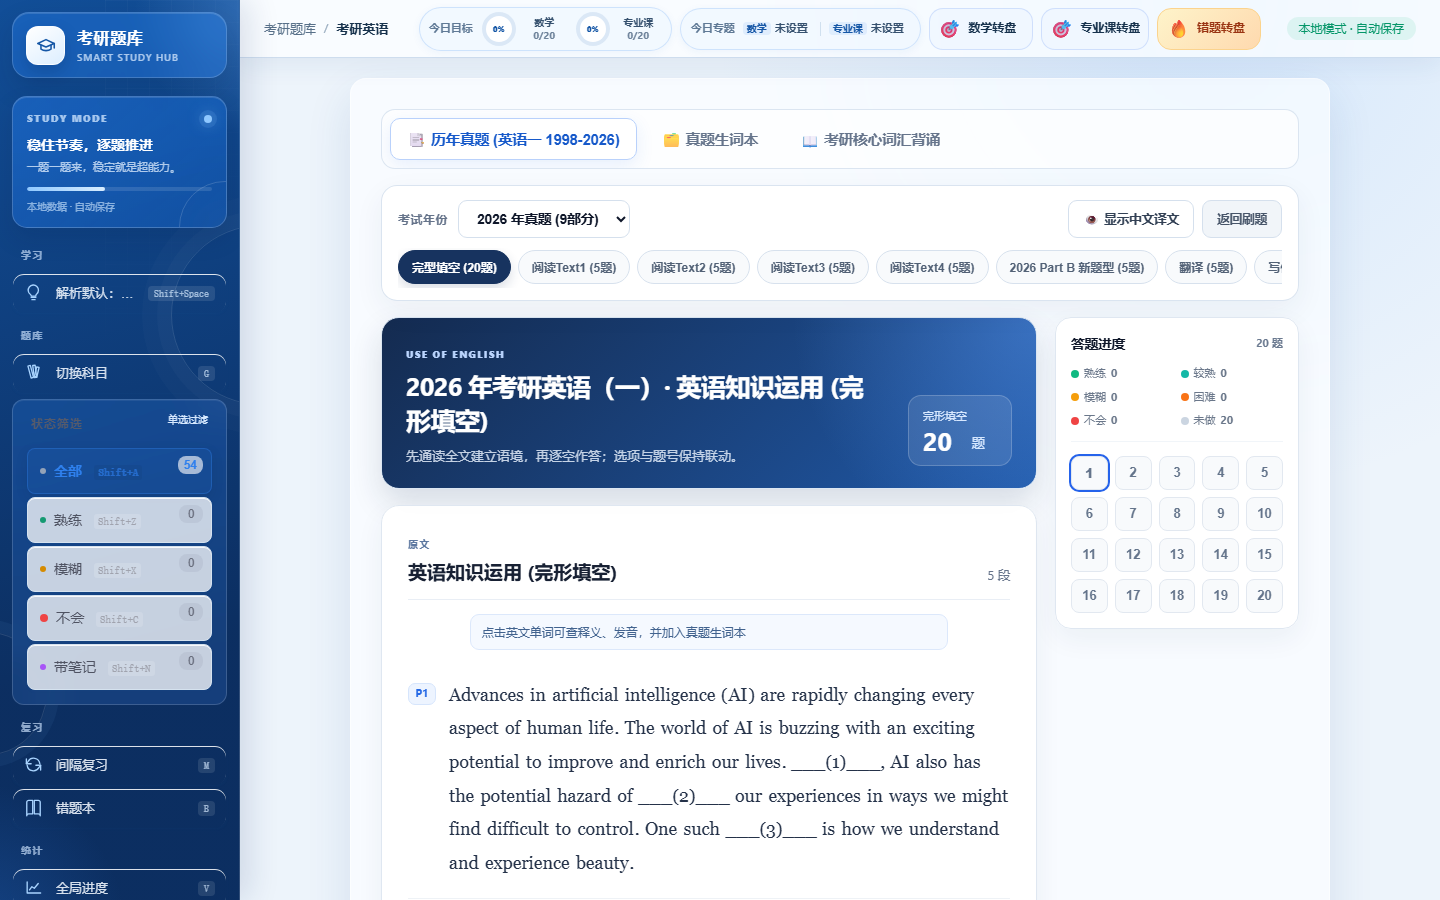
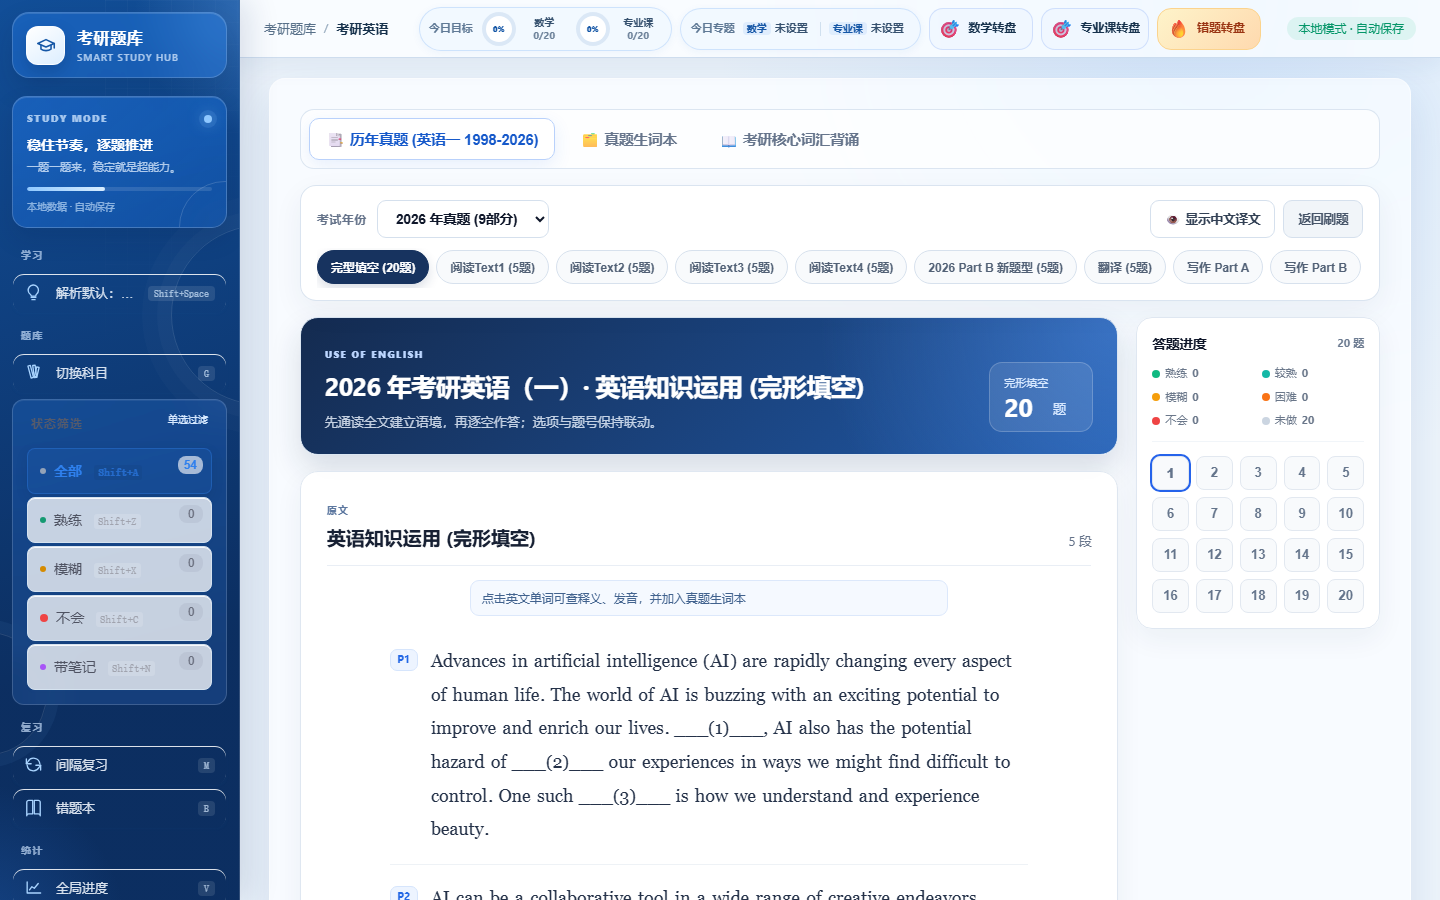
feat: 考研英语空间利用放宽、完形单列排版与启动刷新进入全局进度 (V3)

Changed region(s): [[0.1875, 0.0933, 0.9688, 1.0], [0.75, 0.6533, 0.9375, 0.7156]]

diff --git a/js/app.js b/js/app.js
@@ -1835,8 +1835,12 @@
 
     function toggleDashboard() {
       if (getWorkbenchView() === 'dashboard') {
-        setWorkbenchView('practice');
-        renderTitle();
+        if (curSubjectId === 'english' && typeof window.openEnglishVocabulary === 'function') {
+          window.openEnglishVocabulary();
+        } else {
+          setWorkbenchView('practice');
+          renderTitle();
+        }
         return;
       }
 
@@ -5696,7 +5700,8 @@ ${cardsHTML}
 
         var panelKeys = [
           'h',
-          'escape'
+          'escape',
+          'g'
         ];
 
         if (
@@ -6015,6 +6020,13 @@ ${cardsHTML}
       renderSolDefaultBtn(); updateSolutionUI();
     }
 
+    // 每次重新加载都从“全局进度”主页开始，但不改写用户的科目、题号和作答进度。
+    function openStartupDashboard() {
+      setWorkbenchView('dashboard');
+      renderDashboardOverview();
+      setPanelTitle('全局学习进度');
+    }
+
     // ===== 每日推进转盘 Bridge (数学 + 专业课) =====
     const DAILY_STUDY_WHEEL_BOOKS = {
       shu1: [
@@ -6329,6 +6341,7 @@ ${cardsHTML}
         await migrateHistoricalUserData(); // 兼容旧版本本地键与历史命名空间安全迁移
         loadAnnotations();
         await initAppSession();
+        openStartupDashboard();
 
         // 首次使用时，题库初始化完成后再引导选择科目
         if (!localStorage.getItem(subjectStorageKey())) {

diff --git a/css/styles.css b/css/styles.css
@@ -7839,6 +7839,30 @@ body {
   --ez-card: rgba(255, 255, 255, .97);
 }
 
+/* 英语工作台占满侧栏之外的可用空间；正文仍由 74ch 控制可读行长。 */
+.app-layout.english-mode .workbench-body {
+  max-width: none;
+  margin: 0;
+  padding-inline: clamp(16px, 2vw, 36px);
+}
+
+.app-layout.english-mode .main-content {
+  width: 100%;
+  max-width: none;
+  margin: 0;
+}
+
+.app-layout.english-mode .main-area {
+  width: 100%;
+  max-width: none;
+  margin: 0;
+  align-items: stretch;
+}
+
+.app-layout.english-mode .english-panel {
+  width: 100%;
+}
+
 .english-top-tabs {
   max-width: 100%;
   box-sizing: border-box;
@@ -8144,7 +8168,7 @@ body {
 }
 
 .ez-question-list--cloze {
-  grid-template-columns: repeat(2, minmax(0, 1fr));
+  grid-template-columns: minmax(0, 1fr);
 }
 
 .ez-question-card {

diff --git a/index.html b/index.html
@@ -5,7 +5,7 @@
   <meta name="viewport" content="width=device-width, initial-scale=1.0">
   <title>考研题库 - 全功能专业版</title>
   <link rel="stylesheet" href="lib/katex/katex.min.css">
-  <link rel="stylesheet" href="css/styles.css?v=20260912a">
+  <link rel="stylesheet" href="css/styles.css?v=20260923c">
 </head>
 <body>
 
@@ -1400,7 +1400,7 @@
   <script src="data/english/english-zhenti-data.js"></script>
   <script src="js/solution-manifest.js?v=20260921a"></script>
   <script src="js/chapters.js?v=20260921a"></script>
-  <script src="js/app.js?v=20260921a"></script>
+  <script src="js/app.js?v=20260923c"></script>
   <script src="js/daily-study-wheel.js?v=20260922d"></script>
   <script src="js/daily-wrong-wheel.js?v=20260923a"></script>
   <script src="js/english.js?v=20260923b"></script>

diff --git a/scripts/test_english_ui_v2_viewports.py b/scripts/test_english_ui_v2_viewports.py
@@ -14,6 +14,7 @@ async def main():
 
     url = "file:///" + os.path.abspath("index.html").replace("\\", "/")
     viewports = [
+        ("desktop_1920", 1920, 1080),
         ("desktop_1440", 1440, 900),
         ("laptop_1024", 1024, 768),
         ("tablet_768", 768, 1024),
@@ -31,6 +32,14 @@ async def main():
             await page.wait_for_timeout(200)
 
             # Switch to English
+            subj_visible = await page.locator("#subjectOverlay").is_visible()
+            if not subj_visible:
+                await page.keyboard.press("KeyG")
+                await page.wait_for_timeout(200)
+                if not await page.locator("#subjectOverlay").is_visible():
+                    await page.click("#btnSwitchSubject")
+                    await page.wait_for_timeout(200)
+
             english_opt = page.locator(".subject-option:has-text('考研英语')").first
             await english_opt.click()
             await page.wait_for_timeout(500)
@@ -50,7 +59,14 @@ async def main():
                 assert "Advancesin" not in para_text, "Cloze text must not stick words together"
                 assert ".?" not in para_text, "No .? in cloze text"
 
-                if width == 1440:
+                if width == 1920:
+                    wb_w = await page.locator(".app-layout.english-mode .workbench-body").evaluate("el => el.getBoundingClientRect().width")
+                    assert wb_w > 1500, f"English workbench width should utilize wide screen, got {wb_w}px"
+                    cloze_cols = await page.locator(".ez-question-list--cloze").evaluate("el => window.getComputedStyle(el).gridTemplateColumns")
+                    print(f"  - 1920 cloze cols: {cloze_cols}, workbench width: {wb_w}px")
+                    await page.screenshot(path="screenshots/v3_cloze_desktop_1920.png")
+                    print("  - Saved screenshots/v3_cloze_desktop_1920.png")
+                elif width == 1440:
                     await page.screenshot(path="screenshots/v2_cloze_desktop_1440.png")
                     print("  - Saved screenshots/v2_cloze_desktop_1440.png")
                 elif width == 390:
@@ -67,7 +83,10 @@ async def main():
                 assert "Forthousands" not in read_para, "No sticky words in reading"
                 assert ".?" not in read_para, "No .? in reading"
 
-                if width == 1440:
+                if width == 1920:
+                    await page.screenshot(path="screenshots/v3_reading_desktop_1920.png")
+                    print("  - Saved screenshots/v3_reading_desktop_1920.png")
+                elif width == 1440:
                     await page.screenshot(path="screenshots/v2_reading_desktop_1440.png")
                     print("  - Saved screenshots/v2_reading_desktop_1440.png")
 
@@ -101,6 +120,20 @@ async def main():
                 # Test reload persistence
                 await page.reload(wait_until="networkidle")
                 await page.wait_for_timeout(300)
+                dashboard_visible = await page.locator("#dashboardPanel").is_visible()
+                assert dashboard_visible, "Reload must return to the global progress dashboard"
+
+                # 回到英语翻译工作区后再验证草稿；刷新只改变起始视图，不清空作答数据。
+                # 验证 toggleDashboard() 快捷键 'v' 从全局进度直接返回英语工作台联动
+                await page.keyboard.press("KeyV")
+                await page.wait_for_timeout(300)
+                if await page.locator("#dashboardPanel").is_visible():
+                    await page.click("#btnDashboard")
+                    await page.wait_for_timeout(300)
+
+                trans_pill_after_reload = page.locator(".ez-pill").filter(has_text="翻译").first
+                await trans_pill_after_reload.click()
+                await page.wait_for_timeout(200)
                 val_after_reload = await page.locator(".ez-answer-textarea").first.input_value()
                 assert val_after_reload == test_trans_str, "Translation draft must persist after reload"
 
